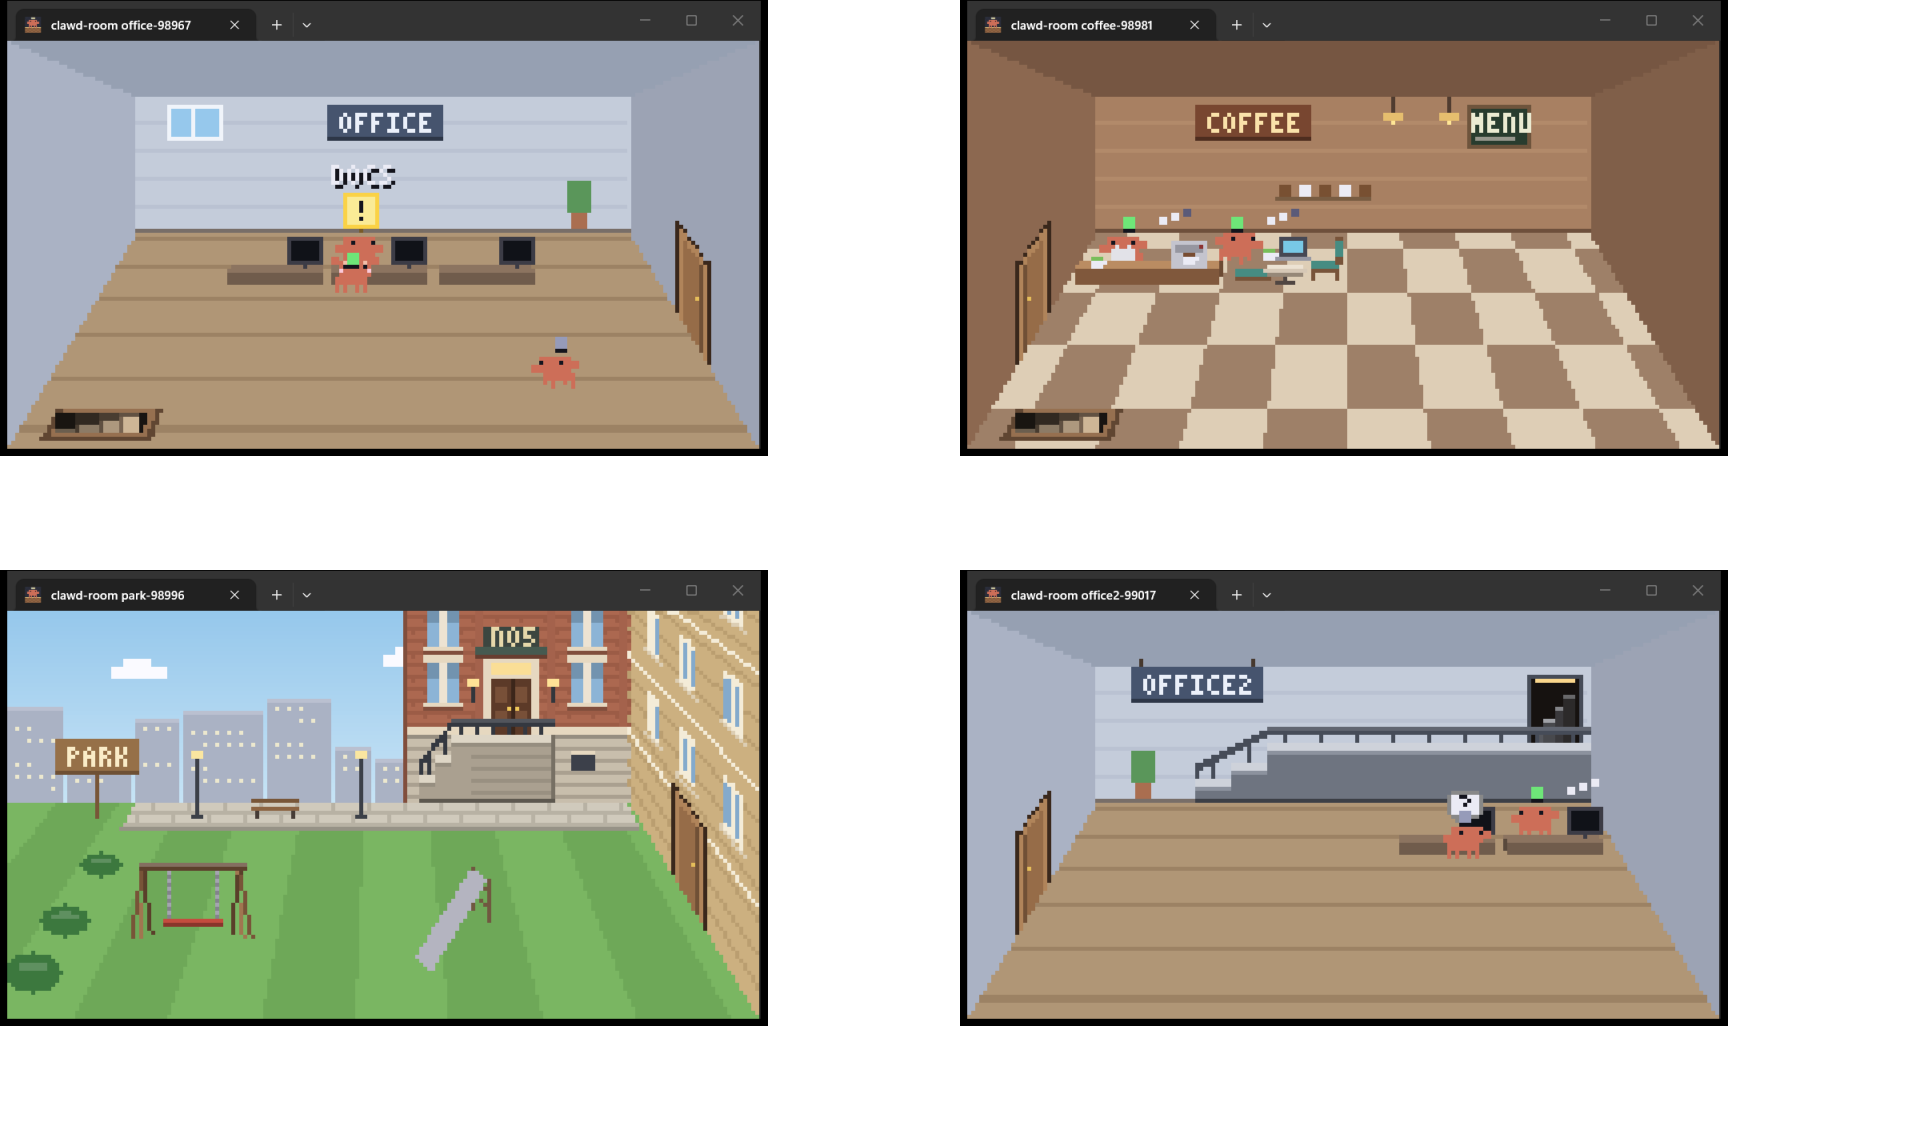
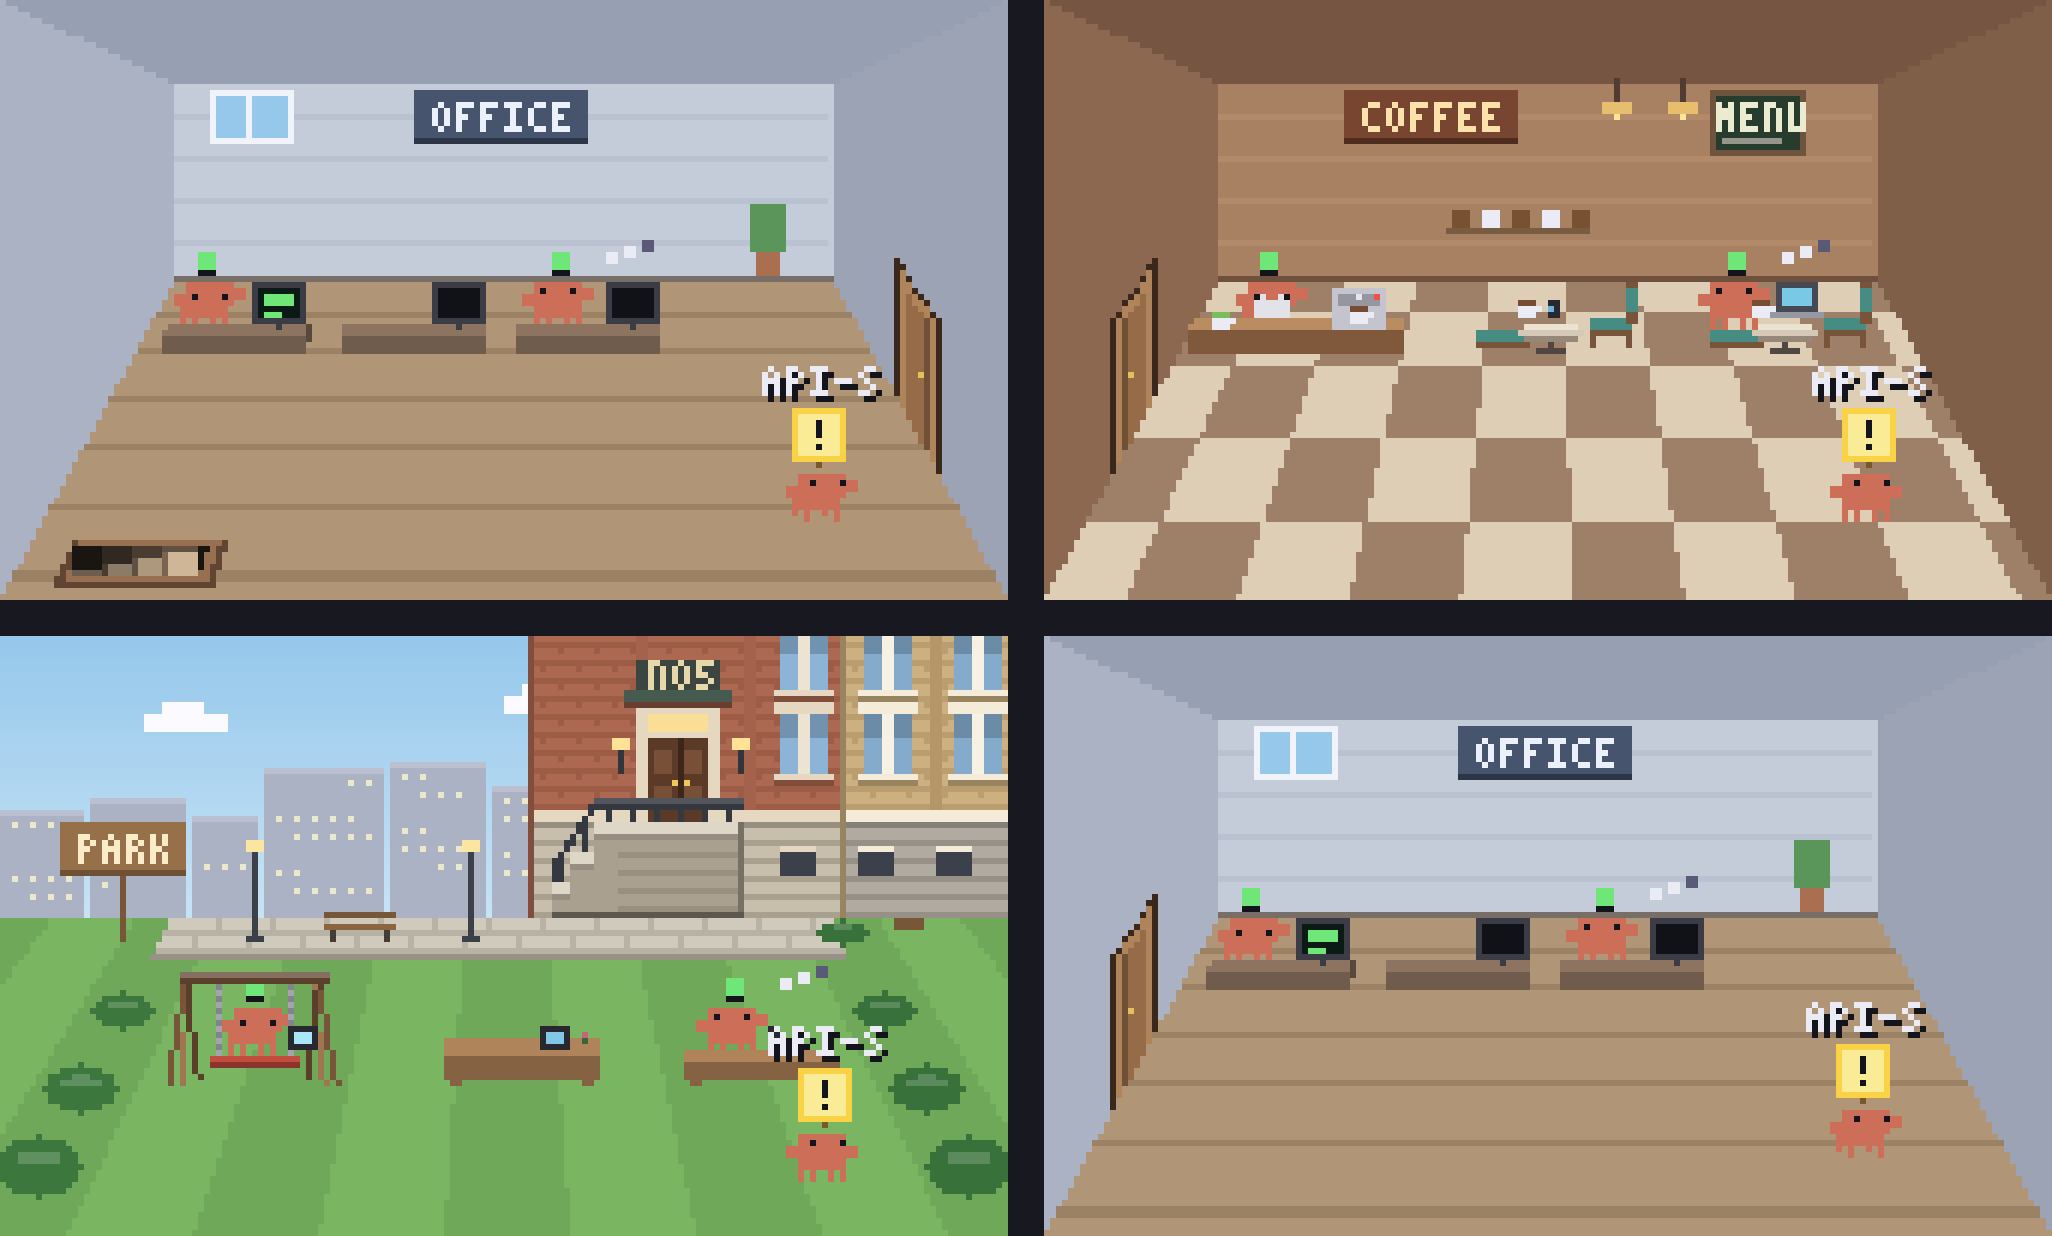
docs(readme): the room pictures drawn again by the current program, without the window frame, as wide as the page

diff --git a/README.md b/README.md
@@ -10,7 +10,7 @@
 </p>
 
 <p align="center">
-  <img src="docs/images/four-rooms.png" width="820" alt="Four linked rooms: office, coffee shop, park, office">
+  <img src="docs/images/four-rooms.png" width="100%" alt="Four linked rooms: office, coffee shop, park, office">
 </p>
 
 ## Contents
@@ -39,13 +39,14 @@
 
 ## Screenshots
 
-<table>
-  <tr>
-    <td align="center"><img src="docs/images/office.png" alt="Office"><br><sub>Office</sub></td>
-    <td align="center"><img src="docs/images/coffee.png" alt="Coffee shop"><br><sub>Coffee shop</sub></td>
-    <td align="center"><img src="docs/images/park.png" alt="Park"><br><sub>Park</sub></td>
-  </tr>
-</table>
+<p align="center"><img src="docs/images/office.png" width="100%" alt="The office: Clawds at their desks, one waiting for an answer"></p>
+<p align="center"><sub><b>Office.</b> Busy ones type at their desk (the monitor shows the tool); the one in front holds up a sign: it needs your OK.</sub></p>
+
+<p align="center"><img src="docs/images/coffee.png" width="100%" alt="The coffee shop: the barista behind the bar, Clawds at the tables"></p>
+<p align="center"><sub><b>Coffee shop.</b> The barista works behind the bar; the others sit at the tables.</sub></p>
+
+<p align="center"><img src="docs/images/park.png" width="100%" alt="The park: a swing, benches, a building with stairs"></p>
+<p align="center"><sub><b>Park.</b> A swing, benches, and a building with a stoop that is the way up.</sub></p>
 
 **Moving a Clawd to the next room:** it packs its desk into a box and carries it out.
 

diff --git a/Clawd Room Note/Review/Log/2026/10/W43/2026-10-22.md b/Clawd Room Note/Review/Log/2026/10/W43/2026-10-22.md
@@ -10,6 +10,12 @@ sticker: lucide//calendar-days
 What changed on Thursday, 2026-10-22 (newest first). The index of all days, what is pending and ideas: [[Dev Log]].
 
 ---
+## 🖼 The README pictures are the rooms as they are now, without the window frame (Zaviel)
+> [!info] Branch `docs/readme-screenshots`
+- The three room pictures and the four-rooms picture were copied from vault pictures of 2026-10-18 and 19 (an early look, and the four-rooms one was a screenshot with Windows Terminal's title bars). They are drawn again by the current program, with no window frame, at 1344 x 800 (each room) and 2052 x 1236 (the four together), and shown at the full width of the page.
+- The rooms use made-up session names (`web-shop`, `api-server`, `docs-site`): the Clawds sit at their desks, the barista works behind the bar, one waits with a sign.
+- Not redrawn yet: the packing sheet, the construct GIF and the two editor pictures.
+
 ## 🎨 The picker's THEMES tab: use, open and make a gate theme (Zaviel)
 > [!info] Branch `feat/gate-themes`
 - Picked from three mockups (A chips, B headings, C a tab of theme cards): **C**. A card per theme shows its door, stairs and well side by side (the picked one plays; the construct shows its pieces flying in), ACTIVE on the one in use.
